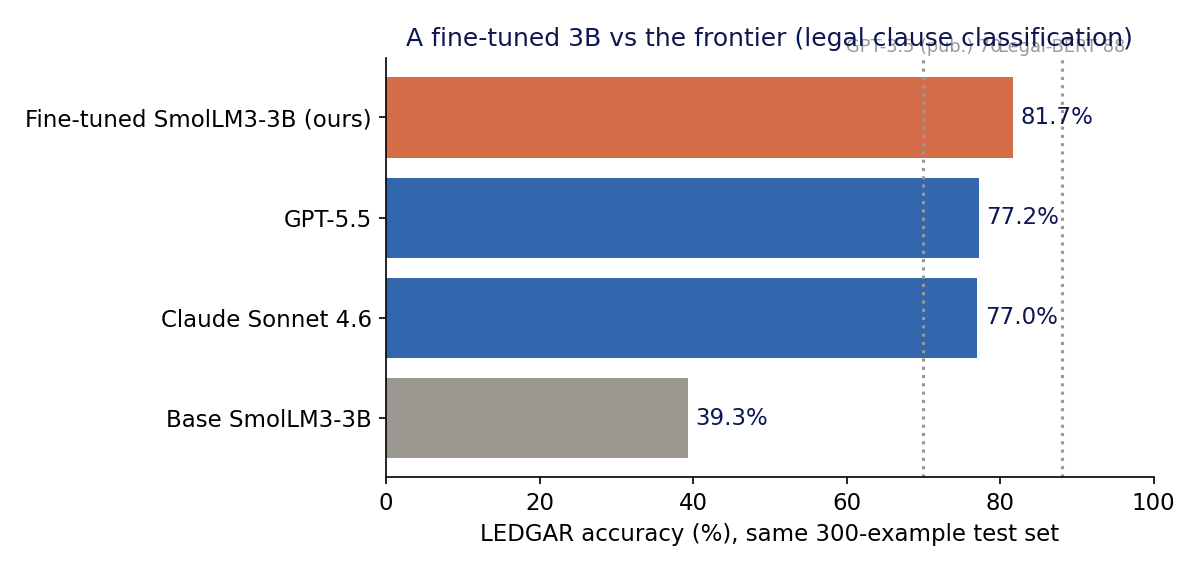
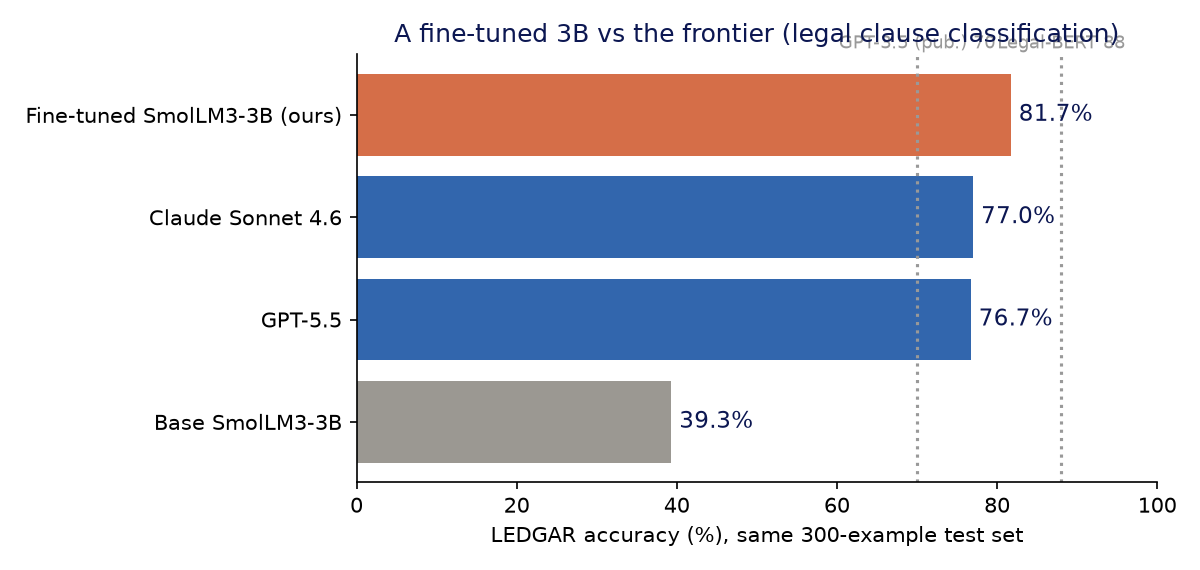
Update GPT-5.5 to the measured 76.7% on full 300 (was a 250-example partial)

diff --git a/gen_charts.py b/gen_charts.py
@@ -54,7 +54,7 @@ fig.tight_layout(); fig.savefig("img/data_distribution.png", dpi=150); plt.close
 print("data_distribution.png")
 
 # 3) accuracy
-rows = [("Base SmolLM3-3B", 39.3, GRAY), ("GPT-5.5", 77.2, BLUE),
+rows = [("Base SmolLM3-3B", 39.3, GRAY), ("GPT-5.5", 76.7, BLUE),
         ("Claude Sonnet 4.6", 77.0, BLUE), ("Fine-tuned SmolLM3-3B (ours)", 81.7, ORANGE)]
 rows = sorted(rows, key=lambda r: r[1])
 fig, ax = plt.subplots(figsize=(8, 3.8))
